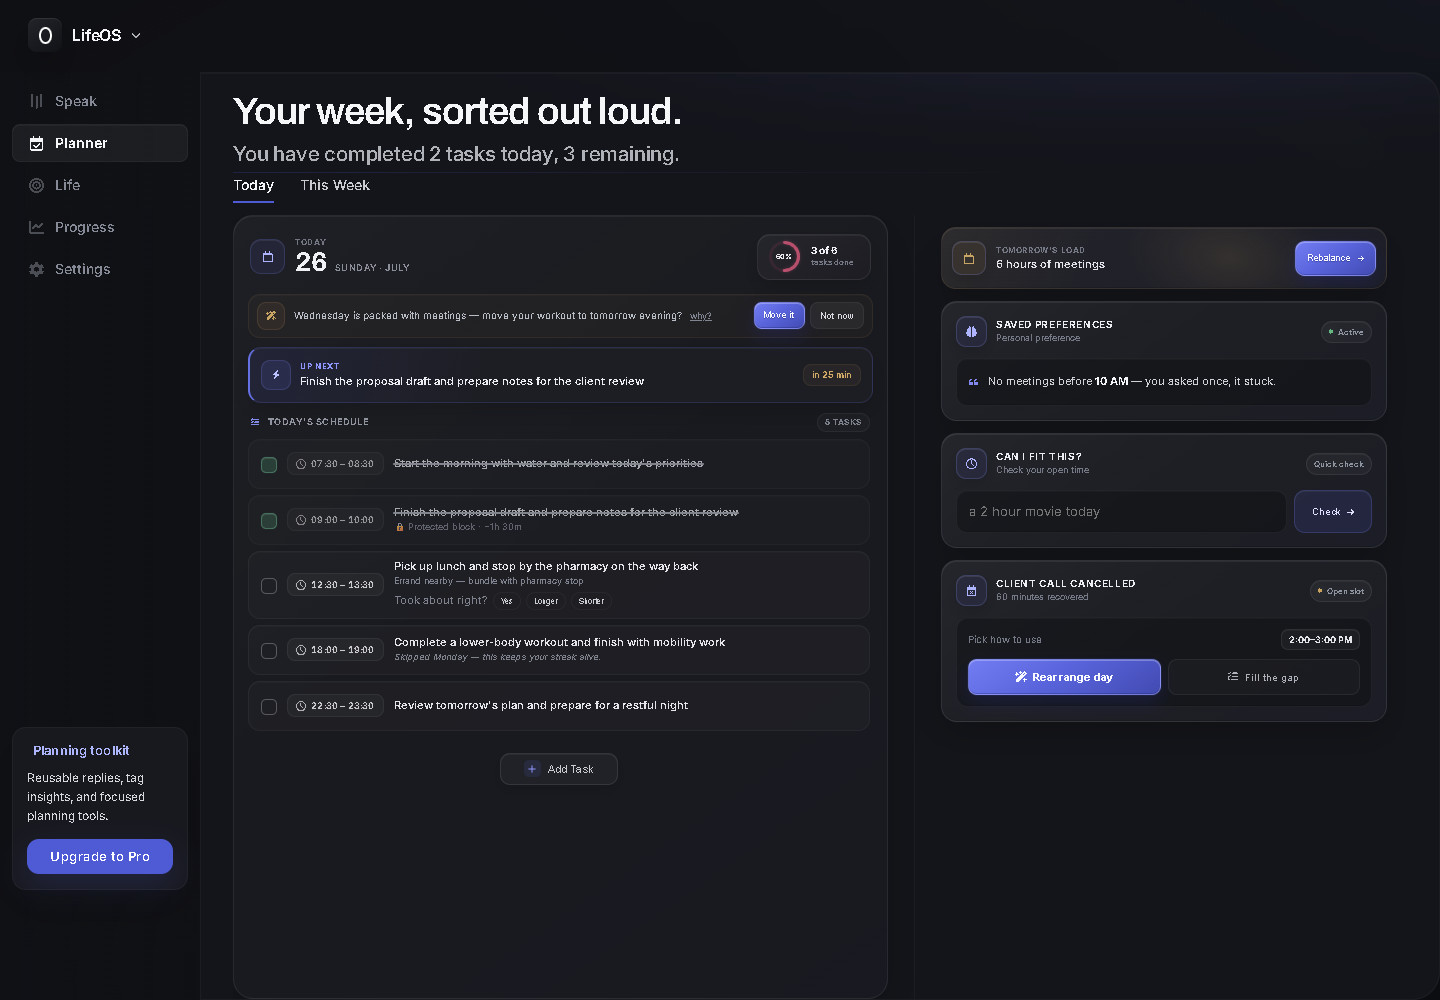
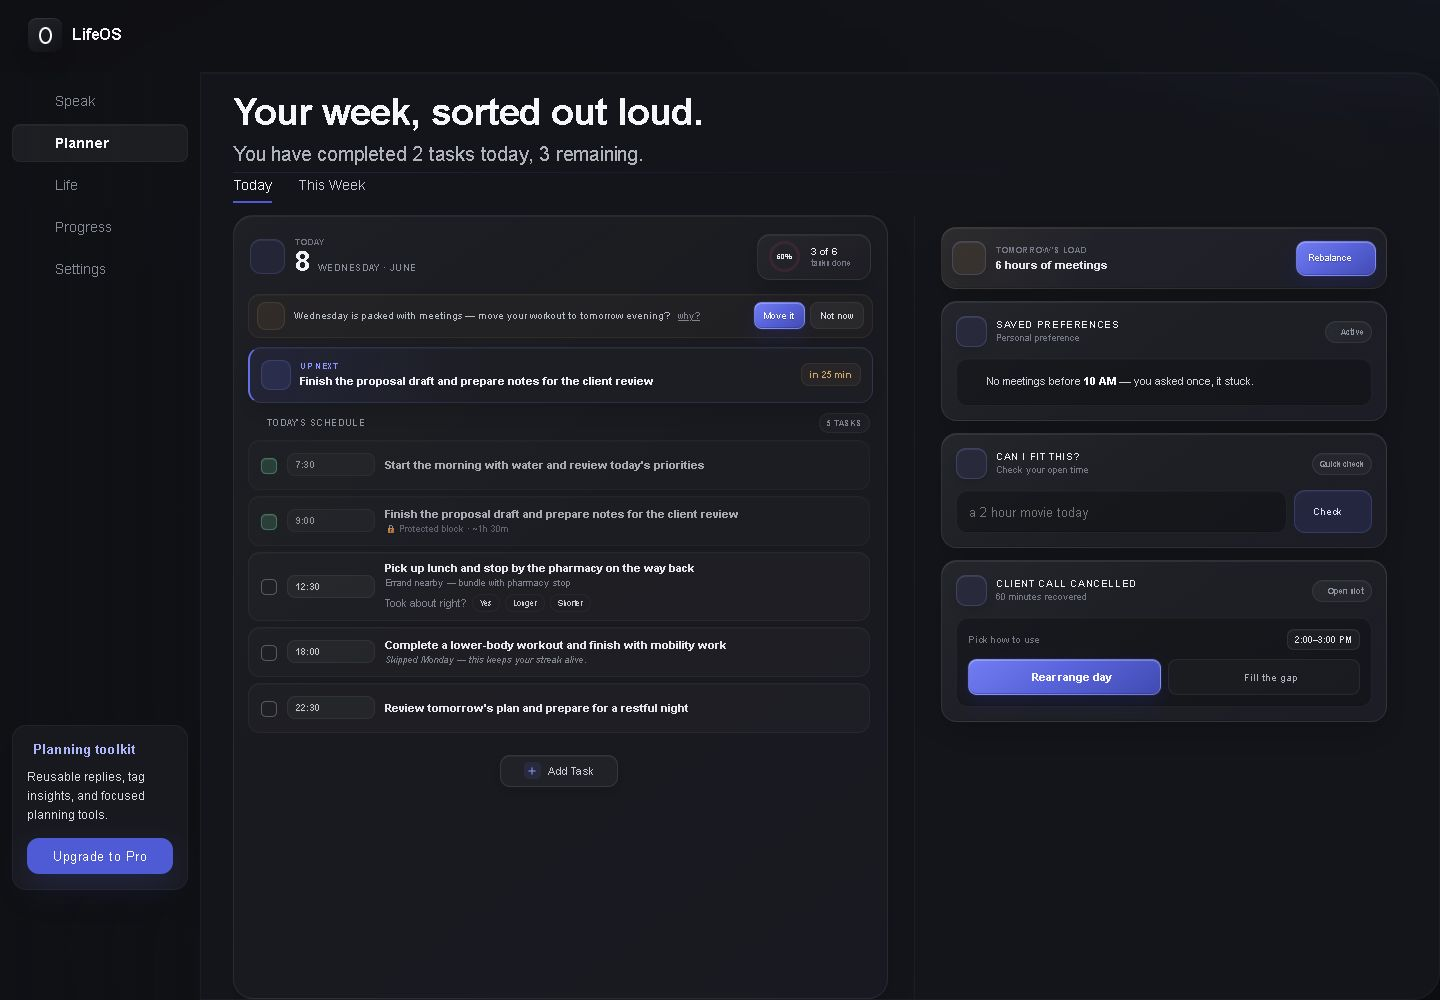
Clean product language (#4)
* Clean product language

* Replace scheduling wand icons

* Polish asset documentation

diff --git a/index.html b/index.html
@@ -7376,7 +7376,7 @@
       }
     }
 
-    /* Today side — premium intelligent action stack */
+    /* Today side — premium action stack */
     #panel-today .today-side {
       gap: 12px;
       margin-top: 0;
@@ -9765,7 +9765,7 @@
                 </div>
 
                 <div class="suggestion">
-                  <span class="suggestion-icon"><i class="fa-solid fa-wand-magic-sparkles"></i></span>
+                  <span class="suggestion-icon"><i class="fa-solid fa-calendar-days"></i></span>
                   <div class="say">Wednesday is packed with meetings — move your workout to tomorrow evening? <span
                       class="why">why?</span></div>
                   <div class="sact"><button class="apply">Move it</button><button class="dismiss">Not now</button></div>
@@ -9888,7 +9888,7 @@
                     <div class="cline"><span>Pick how to use</span><b>2:00–3:00 PM</b></div>
                     <div class="demo-actions">
                       <button class="primary"
-                        onclick="chooseGapOption(this, 'demoResA', 'demoResB')"><i class="fa-solid fa-wand-magic-sparkles"></i> Rearrange
+                        onclick="chooseGapOption(this, 'demoResA', 'demoResB')"><i class="fa-solid fa-arrow-right-arrow-left"></i> Rearrange
                         day</button>
                       <button
                         onclick="chooseGapOption(this, 'demoResB', 'demoResA')"><i class="fa-solid fa-list-check"></i> Fill
@@ -9976,7 +9976,7 @@
                     <div class="time-badge tnum" style="align-self: flex-start; margin-top: 2px;">20:00</div>
                     <div>
                       <div class="t-name">Weekly review</div>
-                      <div class="t-meta">Auto-generated tonight</div>
+                      <div class="t-meta">Scheduled for tonight</div>
                     </div>
                   </div>
                   <button class="day-add-btn" onclick="openTaskModal(this)"><i class="fa-solid fa-plus"></i>
@@ -10109,7 +10109,7 @@
 
               <div class="week-summary" id="wsContent">
                 <div class="ws-header">
-                  <div class="ws-title">Week in review <span class="ws-meta">Synthesized from 15 tasks</span></div>
+                  <div class="ws-title">Week in review <span class="ws-meta">Based on 15 tasks</span></div>
                   <div
                     style="display: flex; flex-direction: column; align-items: flex-end; gap: 12px; position: relative;">
                     <div class="ws-stats">
@@ -10258,7 +10258,7 @@
                 <button class="day-add-btn" onclick="openTaskModal()"><i class="fa-solid fa-plus"></i> Add Task</button>
               </div>
               <div class="unsched-top">
-                <span class="ut-tag">Decision assistant</span>
+                <span class="ut-tag">Planning support</span>
                 You have <b>3 free hours</b> on Friday afternoon — here's what fits best from your list below.
               </div>
 
@@ -10410,7 +10410,7 @@
       <div class="modal-actions">
         <button class="btn-cancel" id="btnDeleteTask" style="display:none; color: var(--maroon); margin-right: auto;"
           onclick="deleteCurrentTask()">Delete</button>
-        <span class="modal-action-note"><i class="fa-solid fa-wand-magic-sparkles"></i> Smart scheduling stays on</span>
+        <span class="modal-action-note"><i class="fa-solid fa-calendar-check"></i> Scheduling preferences stay on</span>
         <button class="btn-cancel" onclick="closeTaskModal()">Cancel</button>
         <button class="btn-submit" id="btnSaveTask" onclick="submitTask()"><i class="fa-solid fa-plus"></i> Save Task</button>
       </div>

diff --git a/ASSETS.md b/ASSETS.md
@@ -2,4 +2,4 @@
 
 This project uses Font Awesome icons loaded by the interface and the Inter and Playfair Display typefaces. Those third-party resources remain subject to their respective licenses and terms.
 
-The interface content is fictional and included only for this portfolio demonstration.
+The interface content is included for presentation and testing within this project.
